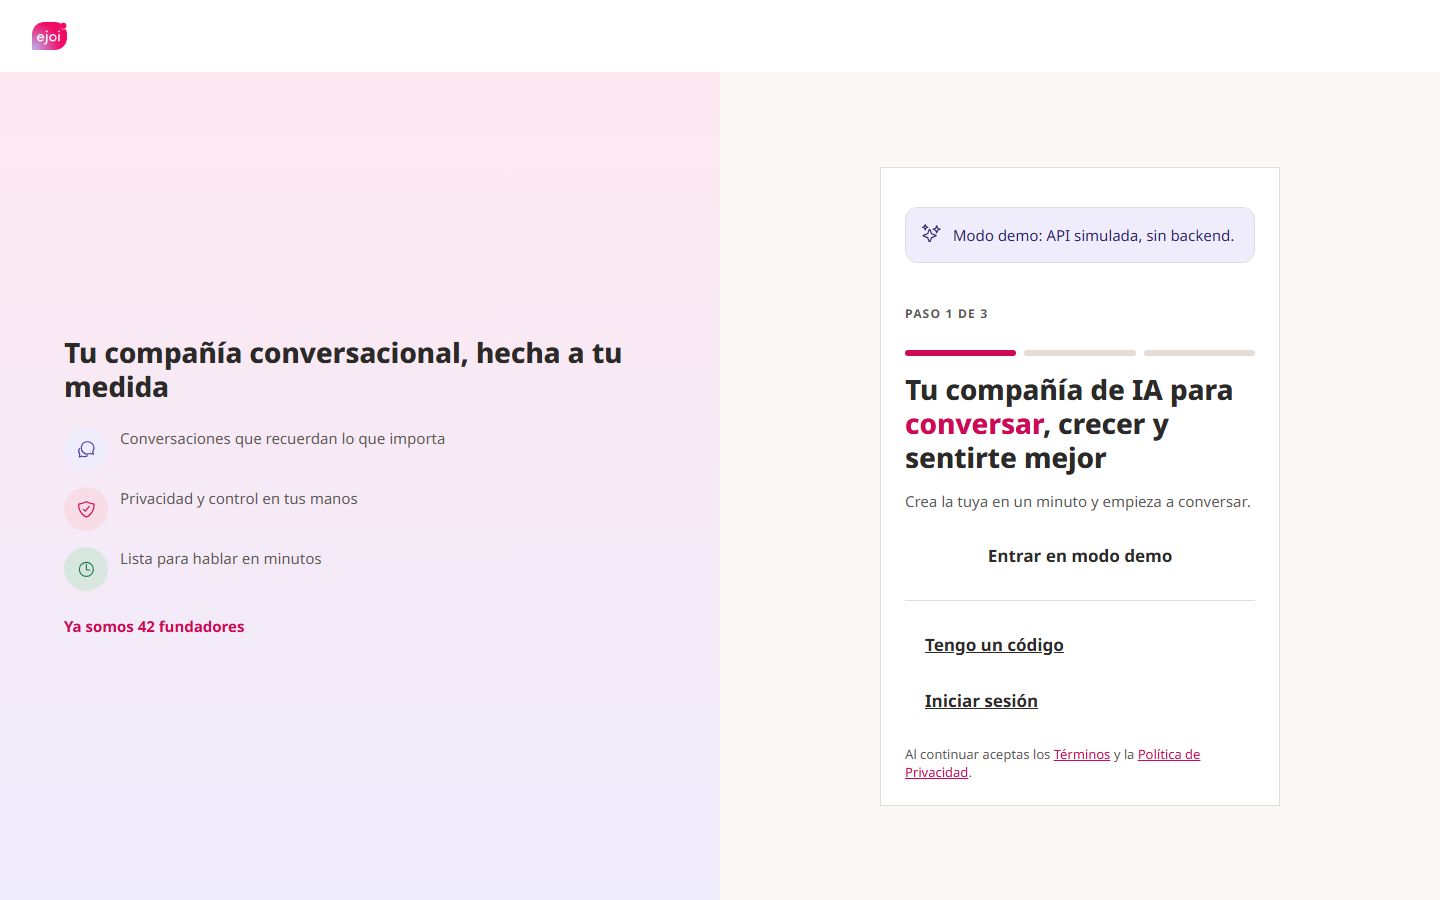
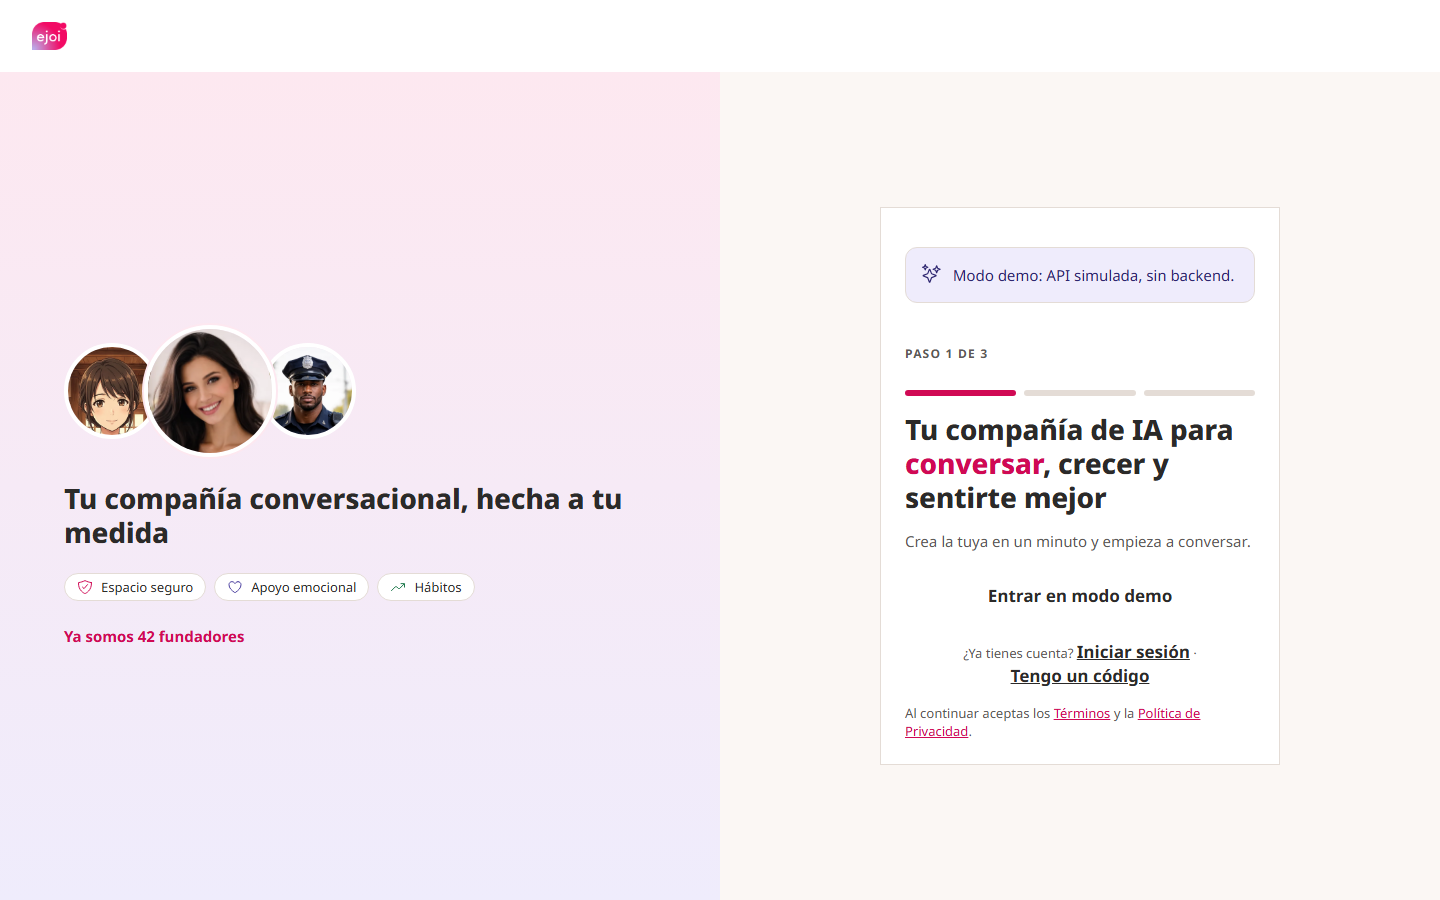
feat(web): acceso con trio de retratos, insignias de pilares y linea de cuenta (SCRUM-167)
Columna de marca con trío 96/132/96, insignias DU-01 y línea de cuenta DU-02.
E2e de teclado para Iniciar sesión y código; capturas acceso claro/oscuro.

Refs: SCRUM-104

diff --git a/src/pages/Access/AccessPage.tsx b/src/pages/Access/AccessPage.tsx
@@ -32,6 +32,18 @@ import './AccessPage.css';
 const LEGAL_TERMS_URL = `${CAMPAIGN_LANDING_URL}/terminos`;
 const LEGAL_PRIVACY_URL = `${CAMPAIGN_LANDING_URL}/privacidad`;
 
+const ACCESS_PORTRAITS = {
+  left: '/portraits/ilustrado-femenino.webp',
+  center: '/portraits/realista-femenino.webp',
+  right: '/portraits/realista-masculino.webp',
+} as const;
+
+const VALUE_PILLS = [
+  { key: 'pill_safe', icon: 'shield-checkmark-outline', tone: 'brand' },
+  { key: 'pill_support', icon: 'heart-outline', tone: 'lav' },
+  { key: 'pill_habits', icon: 'trending-up-outline', tone: 'ok' },
+] as const;
+
 function profileFromIdToken(idToken: string) {
   const payload = decodeJwtPayload(idToken);
   return {
@@ -195,28 +207,44 @@ export default function AccessPage() {
       <DesktopShell header={<Logo height={28} />}>
         <div className="access-layout">
           <section className="access-brand" aria-labelledby="access-brand-heading">
+            <div className="access-brand__portraits" aria-hidden>
+              <img
+                className="avatar access-brand__portrait access-brand__portrait--side"
+                src={ACCESS_PORTRAITS.left}
+                alt=""
+                width={96}
+                height={96}
+                decoding="async"
+              />
+              <img
+                className="avatar avatar--132 access-brand__portrait access-brand__portrait--center"
+                src={ACCESS_PORTRAITS.center}
+                alt=""
+                width={132}
+                height={132}
+                decoding="async"
+              />
+              <img
+                className="avatar access-brand__portrait access-brand__portrait--side"
+                src={ACCESS_PORTRAITS.right}
+                alt=""
+                width={96}
+                height={96}
+                decoding="async"
+              />
+            </div>
             <h1 id="access-brand-heading" className="access-brand__tagline">
               {t('auth.login.value_tagline')}
             </h1>
-            <ul className="access-brand__seals">
-              <li>
-                <span className="access-brand__seal-icon access-brand__seal-icon--lav" aria-hidden>
-                  <AppIcon name="chatbubbles-outline" />
-                </span>
-                {t('auth.login.value_seal_1')}
-              </li>
-              <li>
-                <span className="access-brand__seal-icon access-brand__seal-icon--brand" aria-hidden>
-                  <AppIcon name="shield-checkmark-outline" />
-                </span>
-                {t('auth.login.value_seal_2')}
-              </li>
-              <li>
-                <span className="access-brand__seal-icon access-brand__seal-icon--ok" aria-hidden>
-                  <AppIcon name="time-outline" />
-                </span>
-                {t('auth.login.value_seal_3')}
-              </li>
+            <ul className="access-brand__pills">
+              {VALUE_PILLS.map(({ key, icon, tone }) => (
+                <li key={key}>
+                  <span className={`pill access-brand__pill access-brand__pill--${tone}`}>
+                    <AppIcon name={icon} className="access-brand__pill-icon" />
+                    {t(`auth.login.${key}`)}
+                  </span>
+                </li>
+              ))}
             </ul>
             {founderCount !== null ? (
               <p className="access-brand__social">
@@ -304,26 +332,28 @@ export default function AccessPage() {
                 ) : null}
               </div>
 
-              <hr className="access-auth__sep" />
-
-              <div className="access-auth__text-actions">
+              <p className="access-auth__account-line">
+                {t('web:access.account_prompt')}{' '}
                 <button
                   type="button"
-                  className="btn btn--text btn--l access-auth__text-btn"
-                  onClick={toggleInvite}
-                  disabled={busy}
-                >
-                  {t('web:access.have_code')}
-                </button>
-                <button
-                  type="button"
-                  className="btn btn--text btn--l access-auth__text-btn"
+                  className="btn btn--text access-auth__account-btn"
                   onClick={focusProviders}
                   disabled={busy}
                 >
                   {t('web:access.sign_in')}
                 </button>
-              </div>
+                <span className="access-auth__account-sep" aria-hidden>
+                  {' · '}
+                </span>
+                <button
+                  type="button"
+                  className="btn btn--text access-auth__account-btn"
+                  onClick={toggleInvite}
+                  disabled={busy}
+                >
+                  {t('web:access.have_code')}
+                </button>
+              </p>
 
               {showInvite ? (
                 <div className="field">

diff --git a/src/pages/Access/AccessPage.css b/src/pages/Access/AccessPage.css
@@ -50,45 +50,62 @@ html.access-route .desktop-shell__main {
   color: var(--c-ink);
 }
 
-.access-brand__seals {
+.access-brand__portraits {
+  display: flex;
+  align-items: center;
+  justify-content: flex-start;
+  gap: 0;
+}
+
+.access-brand__portrait--side {
+  width: 96px;
+  height: 96px;
+  border: 4px solid var(--c-surface);
+  z-index: 1;
+}
+
+.access-brand__portrait--center {
+  z-index: 2;
+  margin: 0 calc(-1 * var(--space-2));
+}
+
+.access-brand__portrait--side:first-child {
+  margin-inline-end: calc(-1 * var(--space-2));
+}
+
+.access-brand__portrait--side:last-child {
+  margin-inline-start: calc(-1 * var(--space-2));
+}
+
+.access-brand__pills {
   margin: 0;
   padding: 0;
   list-style: none;
   display: flex;
-  flex-direction: column;
-  gap: var(--space-4);
+  flex-wrap: wrap;
+  gap: var(--space-2);
 }
 
-.access-brand__seals li {
-  display: flex;
-  align-items: flex-start;
-  gap: var(--space-3);
-  font: var(--font-secondary);
-  color: var(--c-ink2);
+.access-brand__pill {
+  gap: var(--space-2);
 }
 
-.access-brand__seal-icon {
+.access-brand__pill-icon {
   display: inline-flex;
-  align-items: center;
-  justify-content: center;
+  width: 16px;
+  height: 16px;
   flex-shrink: 0;
-  width: 44px;
-  height: 44px;
-  border-radius: 50%;
 }
 
-.access-brand__seal-icon--lav {
-  background: var(--c-lav-tint);
-  color: var(--c-lav-ink);
-}
-
-.access-brand__seal-icon--brand {
-  background: color-mix(in srgb, var(--c-brand) 14%, var(--c-surface));
+.access-brand__pill--brand .access-brand__pill-icon {
   color: var(--c-brand-text);
 }
 
-.access-brand__seal-icon--ok {
-  background: color-mix(in srgb, var(--c-ok) 18%, var(--c-surface));
+.access-brand__pill--lav .access-brand__pill-icon {
+  color: var(--c-lav-ink);
+}
+
+.access-brand__pill--ok .access-brand__pill-icon {
   color: var(--c-ok);
 }
 
@@ -167,22 +184,22 @@ html.access-route .desktop-shell__main {
   width: 100%;
 }
 
-.access-auth__sep {
+.access-auth__account-line {
   margin: 0;
-  border: 0;
-  height: 1px;
-  background: var(--c-line);
+  font: var(--font-caption);
+  color: var(--c-ink2);
+  text-align: center;
 }
 
-.access-auth__text-actions {
-  display: flex;
-  flex-direction: column;
-  align-items: stretch;
+.access-auth__account-btn {
+  display: inline;
+  min-height: auto;
+  padding: 0;
+  vertical-align: baseline;
 }
 
-.access-auth__text-btn {
-  width: 100%;
-  justify-content: flex-start;
+.access-auth__account-sep {
+  color: var(--c-ink2);
 }
 
 .access-auth__legal {

diff --git a/e2e/keyboard.spec.ts b/e2e/keyboard.spec.ts
@@ -152,6 +152,36 @@ test.describe('Teclado desktop (SCRUM-113)', () => {
     await expect(page.locator('#main-content')).toBeFocused();
   });
 
+  test('línea de cuenta accesible por teclado', async ({ page }) => {
+    await page.route('**/api/**', async (route) => {
+      const path = new URL(route.request().url()).pathname.replace(/^\/api/, '');
+      if (path.includes('/campaign/founder-count')) {
+        await route.fulfill({
+          status: 200,
+          contentType: 'application/json',
+          body: JSON.stringify({ claimed: 0, max: 100 }),
+        });
+        return;
+      }
+      await route.abort();
+    });
+    await page.goto('/acceso');
+    await expect(page.getByTestId('page-acceso')).toBeVisible();
+
+    const signIn = page.getByRole('button', { name: 'Iniciar sesión' });
+    await signIn.focus();
+    await expect(signIn).toBeFocused();
+    await page.keyboard.press('Enter');
+    await expect(page.getByRole('heading', { name: 'Qué bueno verte de nuevo' })).toBeVisible();
+
+    await page.goto('/acceso');
+    const codeBtn = page.getByRole('button', { name: 'Tengo un código' });
+    await codeBtn.focus();
+    await expect(codeBtn).toBeFocused();
+    await page.keyboard.press('Enter');
+    await expect(page.locator('#access-invite-code')).toBeFocused();
+  });
+
   test('Enter envía y Shift+Enter no envía en el chat', async ({ page }) => {
     await mockAuthedApi(page);
     await page.goto('/chat');
